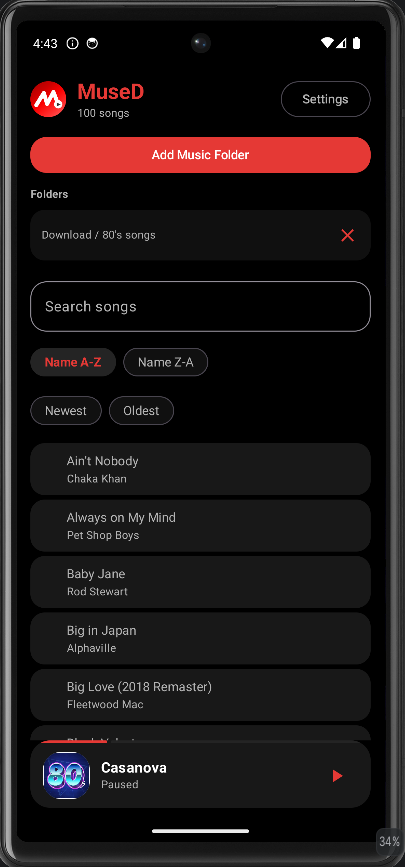
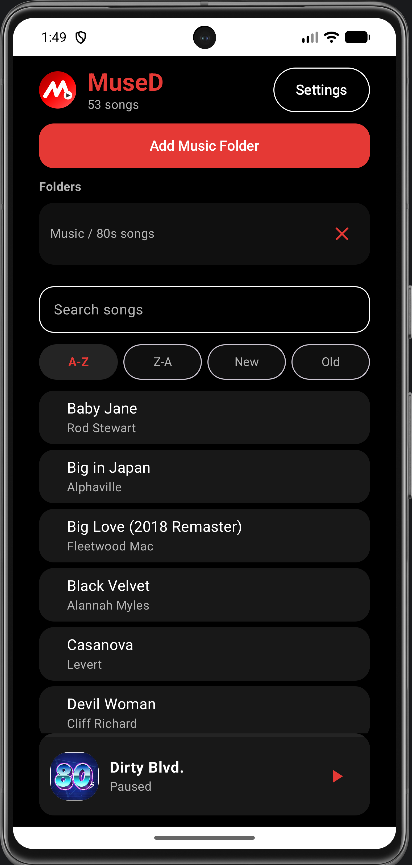
docs: update README with splash screen and queue sorting improvements & updated screenshot

diff --git a/README.md b/README.md
@@ -37,6 +37,9 @@ Built entirely around local music libraries, MuseD provides a fast, privacy-frie
     * Oldest First
 * Current playing song highlighting
 * Cached library loading for faster startup
+* Playback queue automatically follows the selected sort order
+* Natural filename sorting support (1, 2, 3, 10, 11...)
+* Consistent queue order across app restarts
 
 ### Playback
 
@@ -49,6 +52,9 @@ Built entirely around local music libraries, MuseD provides a fast, privacy-frie
 * Queue-based playback
 * Up Next queue view
 * Tap queue item to instantly play
+* Queue synchronization with library sorting
+* Sort changes preserve the currently playing song and playback position
+
 
 ### Background Playback
 
@@ -102,6 +108,7 @@ Built entirely around local music libraries, MuseD provides a fast, privacy-frie
 
 ### UI / UX
 
+* Splash screen on application startup
 * Jetpack Compose UI
 * Modern Material 3 design
 * Dynamic Material You theming
@@ -170,12 +177,15 @@ README.md
 * MediaController abstraction for playback communication
 * Album art memory and disk caching
 * Optimized for large offline music libraries
+* Stable playback queue management
+* Persistent folder ordering across application restarts
 * Focused on stability and maintainability
 
 ---
 
 ## 📌 Current Status
 
+* Splash screen complete
 * Local music playback complete
 * Background playback complete
 * Queue system complete
@@ -184,6 +194,7 @@ README.md
 * Equalizer support complete
 * Dynamic themes complete
 * Multi-folder support complete
+* Playback queue sorting synchronization complete
 * Architecture refactor complete
 * Stabilization and release preparation phase
 
